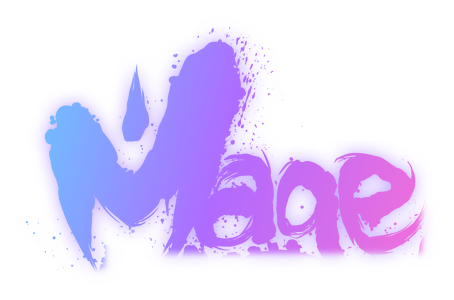
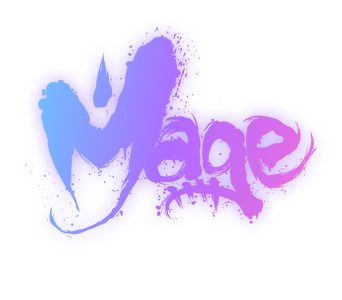
UI: use the standalone 'Mage' brush wordmark
Claude-Session: https://claude.ai/code/session_011UYTheDStoEm7WU2Y2Pvdx

diff --git a/src/PluginEditor.cpp b/src/PluginEditor.cpp
@@ -249,7 +249,7 @@ void MainPanel::paint(juce::Graphics& g)
     // The brush "Mage" wordmark sits on the horizon line; the lines and etchings stop short of it.
     static const juce::Image wordmark = juce::ImageCache::getFromMemory(BinaryData::mage_wordmark_png,
                                                                         BinaryData::mage_wordmark_pngSize);
-    const float markH = 84.0f;
+    const float markH = 90.0f;
     const float markW = wordmark.isValid() ? markH * (float)wordmark.getWidth() / (float)wordmark.getHeight() : 120.0f;
     const float gapL = W * 0.5f - markW * 0.5f - 6.0f, gapR = W * 0.5f + markW * 0.5f + 6.0f;
 
